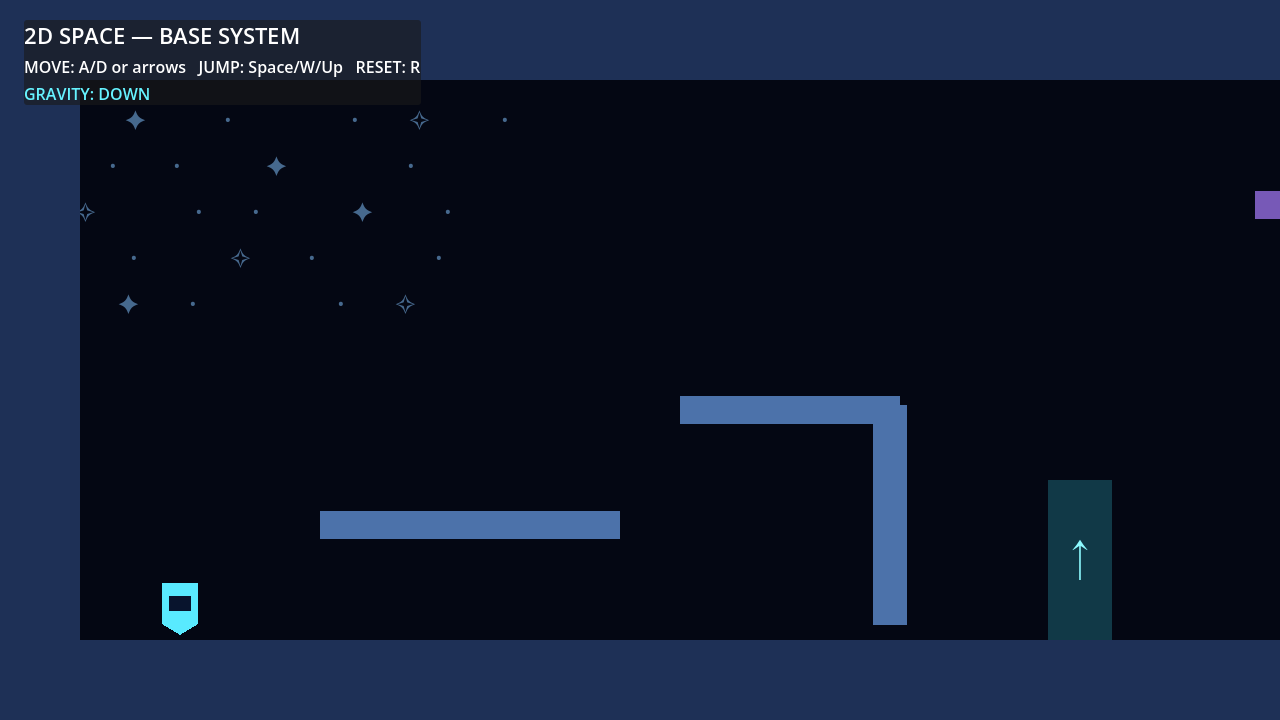
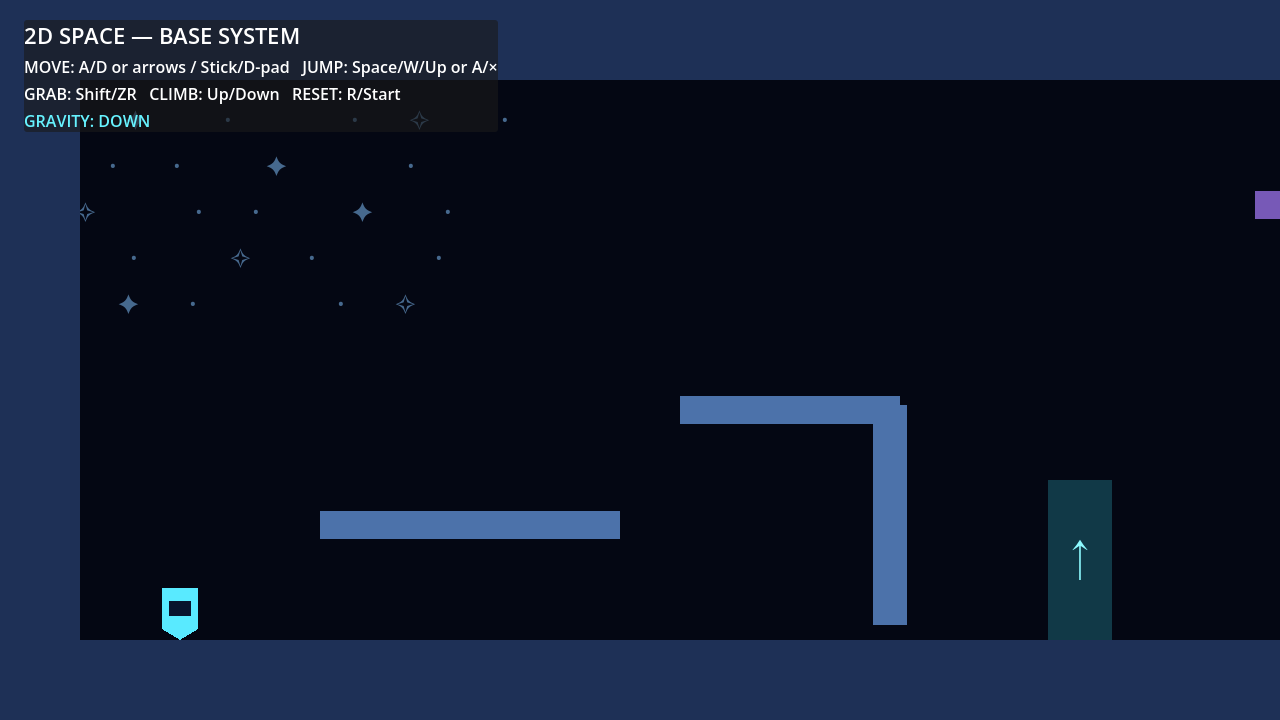
feat: complete Godot base controls

Changed region(s): [[0.0, 0.0306, 0.4062, 0.1833], [0.125, 0.7944, 0.1562, 0.8861]]

diff --git a/README.md b/README.md
@@ -14,13 +14,15 @@
 
 ## 操作
 
-| 操作 | キー |
-| --- | --- |
-| 移動 | `A` / `D` または `←` / `→` |
-| ジャンプ | `Space` / `Enter` / `W` / `↑` |
-| やり直し | `R` |
+| 操作 | キーボード | ゲームパッド |
+| --- | --- | --- |
+| 移動 | `A` / `D` または `←` / `→` | 左スティックまたは十字キー |
+| ジャンプ | `Space` / `W` / `↑` | A / × |
+| 壁を掴む | `Shift`（長押し） | ZR（長押し） |
+| 壁を昇降 | 掴みながら `W` / `S` または `↑` / `↓` | 掴みながら左スティック／十字キー上下 |
+| やり直し | `R` | Start |
 
-水色の矢印ゲートを通ると重力が反転します。壁に触れながらジャンプすると壁ジャンプできます。
+水色の矢印ゲートを通ると重力が反転します。壁は滑る、ジャンプする、掴んで登る、上端へ乗り越える操作を試せます。
 
 ## Sceneの担当分け
 
@@ -38,7 +40,7 @@
 Godot_v4.7.2-stable_win64_console.exe --headless --path . --script res://tests/base_system_test.gd
 ```
 
-`BASE_SYSTEM_TEST_OK` と表示されれば、起動・移動・ジャンプ・重力反転の土台は正常です。
+`BASE_SYSTEM_TEST_OK` と表示されれば、入力・移動・ジャンプ・壁アクション・重力反転の土台は正常です。
 
 ## 今回は未実装
 
